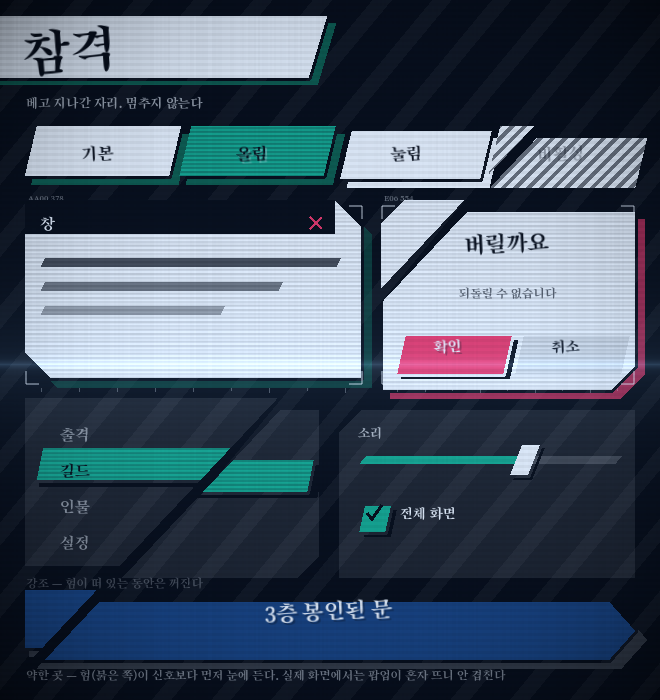
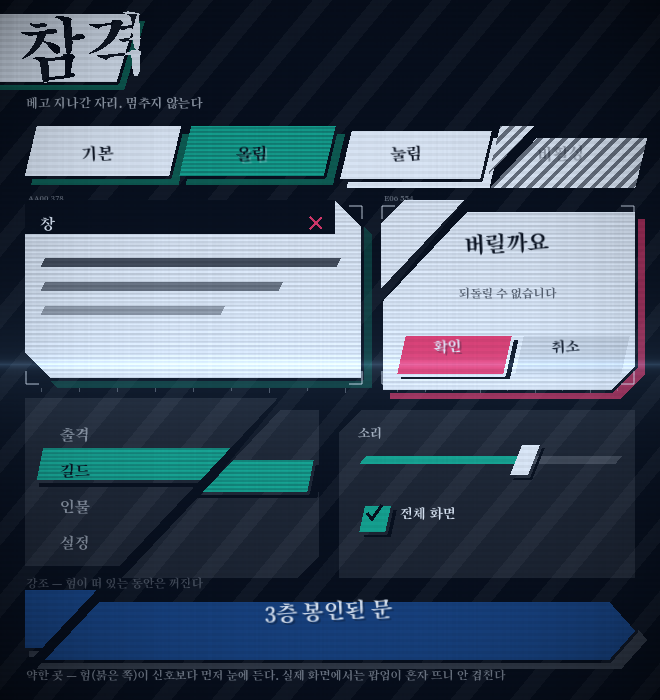
chore(ui): 합본을 HEAD 에 맞춰 다시 뽑는다 — §20.37 이 제목을 바꿨다
글자가 판을 뚫는 제목이 들어가면서 50-slash 가 낡았다. 합본은 HEAD 를
따라가야 하는 산출물이라 안이 하나 붙을 때마다 새로 뽑는다 — 안 그러면
.renders 가 어느 시점의 화면인지 모르는 그림이 된다.

프레임 여든 장에서 런타임 오류 0.

.renders/50-slash_{abyss,plum,azure,dancheong}.png + 50-slash.gif

Changed region(s): [[0.0, 0.0, 0.5152, 0.15]]

diff --git a/docs/design/20-ui-kit.md b/docs/design/20-ui-kit.md
@@ -3128,6 +3128,10 @@ godot --path . -s res://tools/capture_pop.gd -- .renders/46-tone slash stills
 
 `.renders/50-slash_{abyss,plum,azure,dancheong}.png` · `.renders/50-slash.gif`
 
+**§20.37 이 제목을 바꾼 뒤 다시 뽑았다.** 합본은 HEAD 를 따라가야 하는 산출물이라
+안이 하나 붙을 때마다 새로 뽑는다 — 안 그러면 `.renders` 가 **어느 시점의 화면인지
+모르는 그림**이 된다. 편 여든 장은 안 남긴다: GIF 가 판정 매체고 프레임은 20MB 다.
+
 GIF 는 **「단청」 하나로만** 뽑는다. 신호(치자황) · 고름(벽록) · 험(단홍)이
 **색상환에서 셋 다 멀어** 포인트를 셋으로 가른 것이 가장 또렷하게 보인다.
 정지 넷은 색을 재는 것이고 GIF 는 **움직임**을 재는 것이라 — 스냅으로 들어와 서고,
